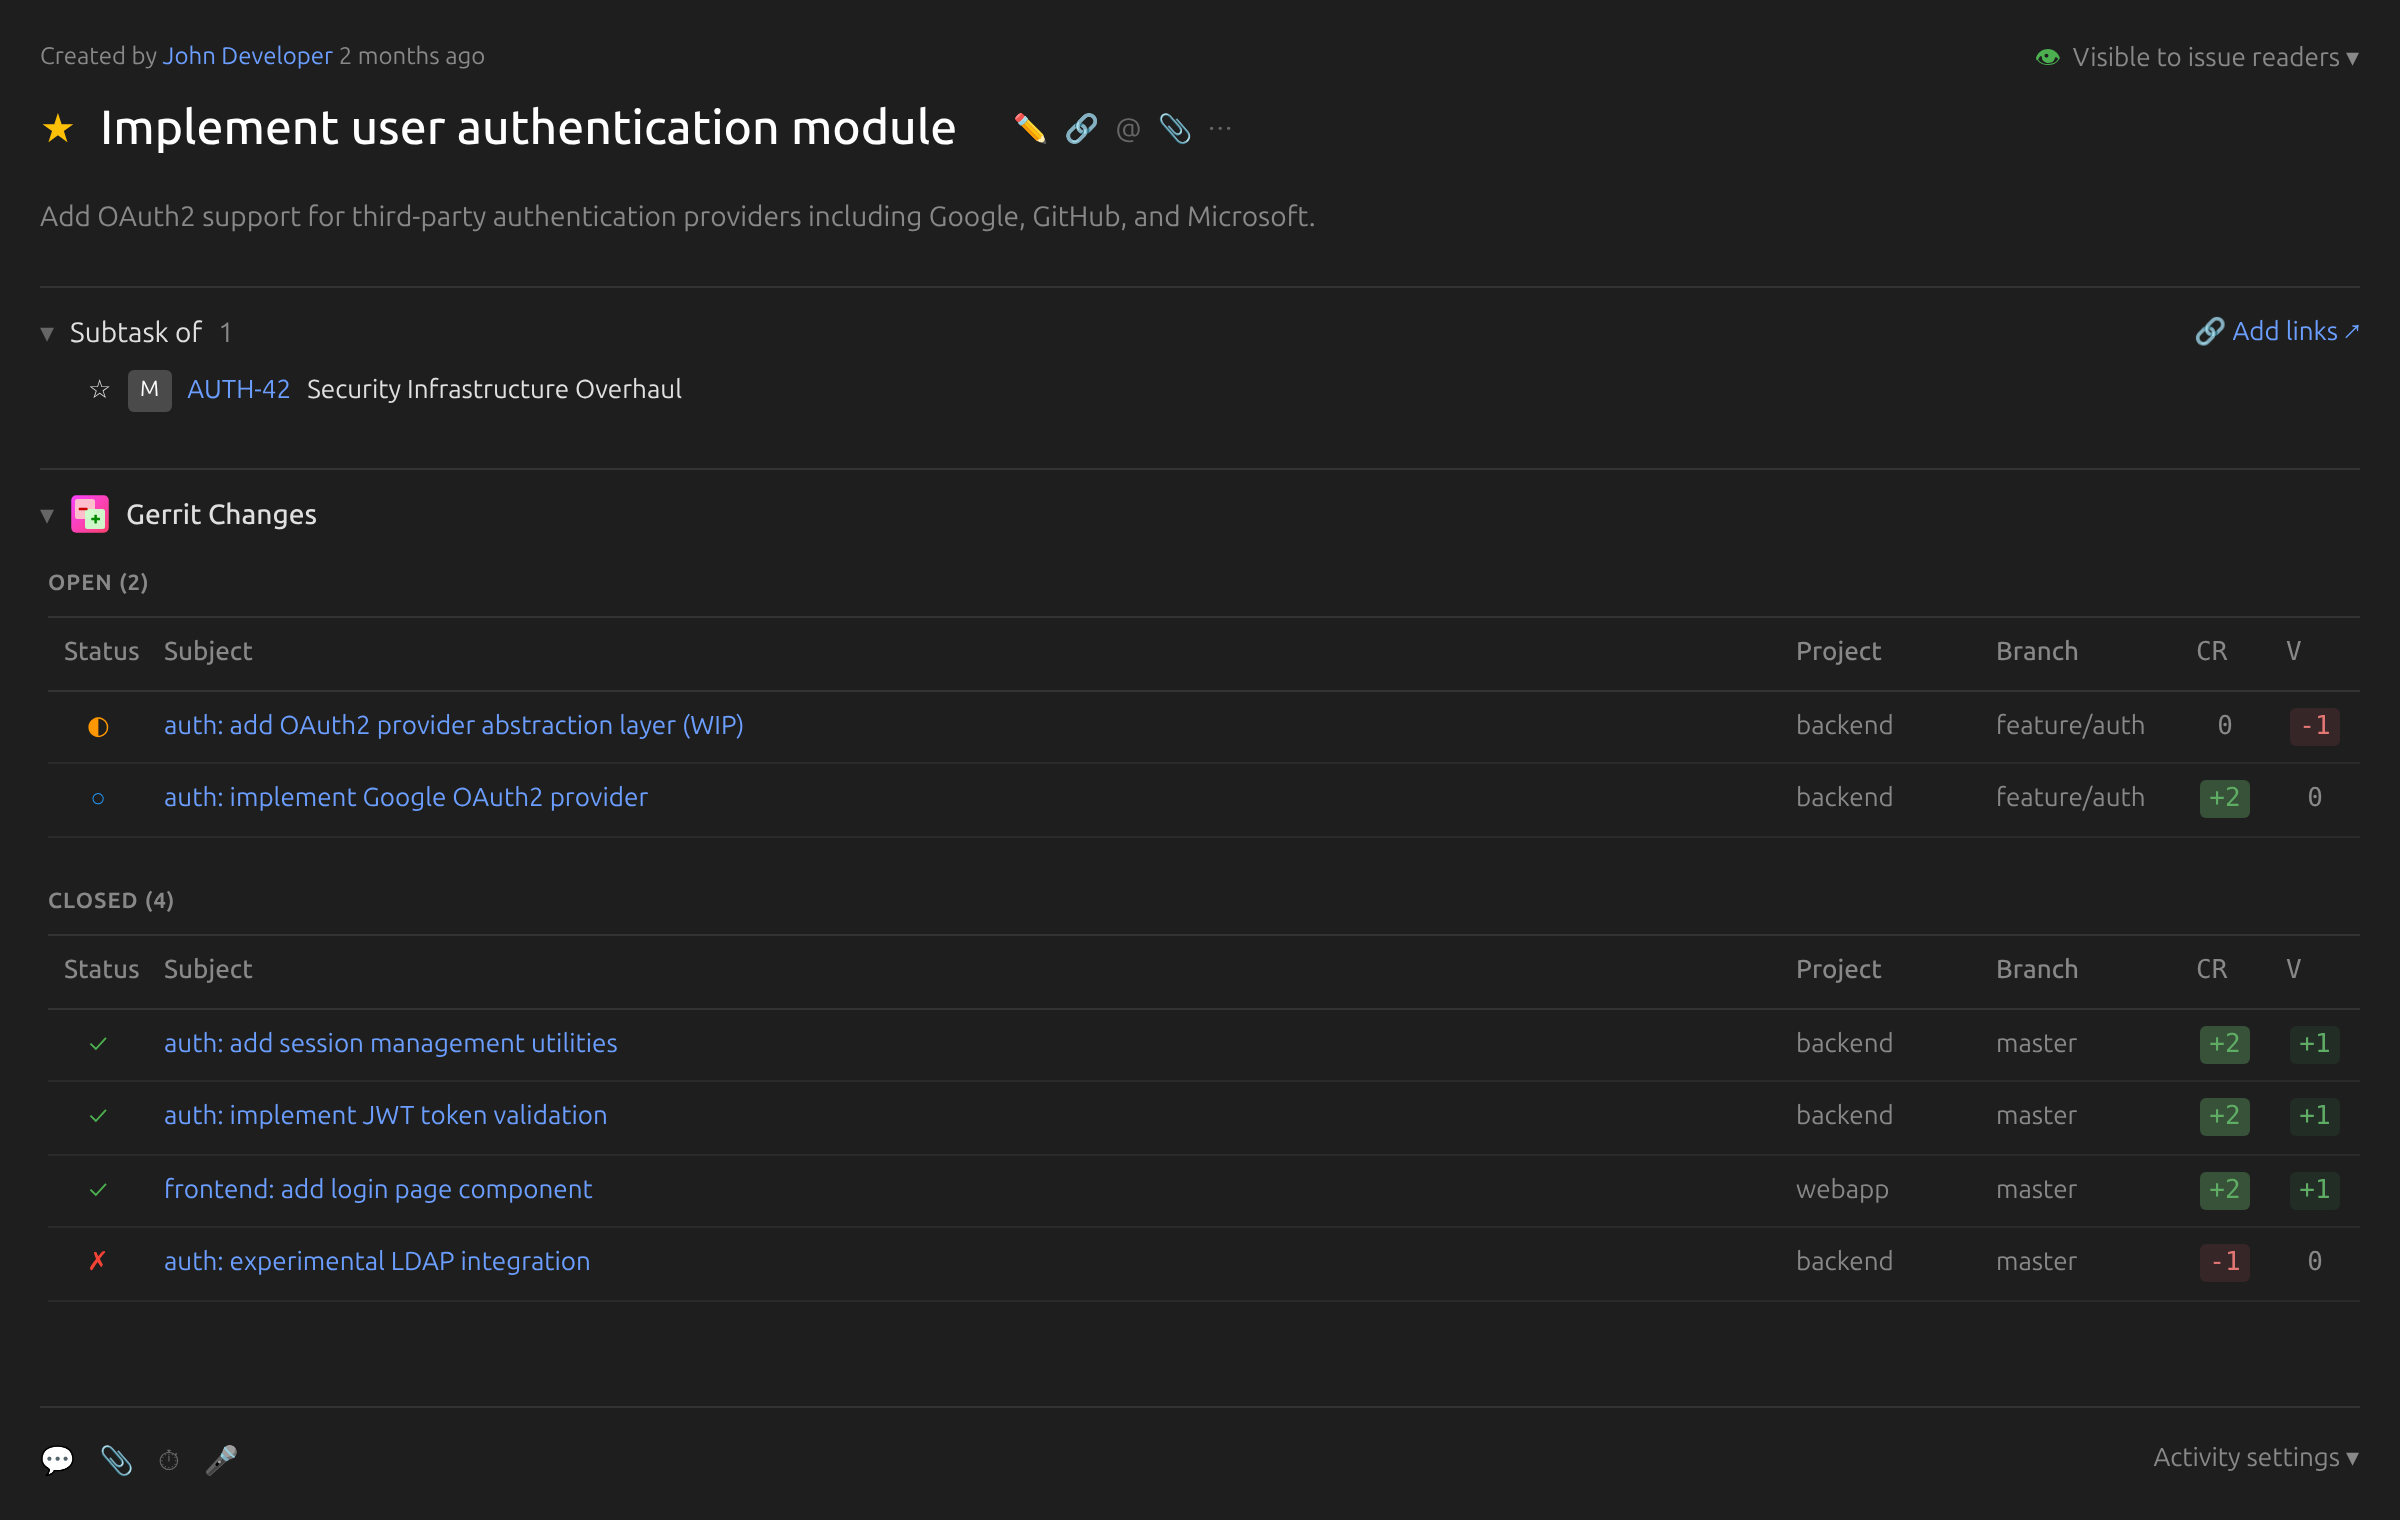
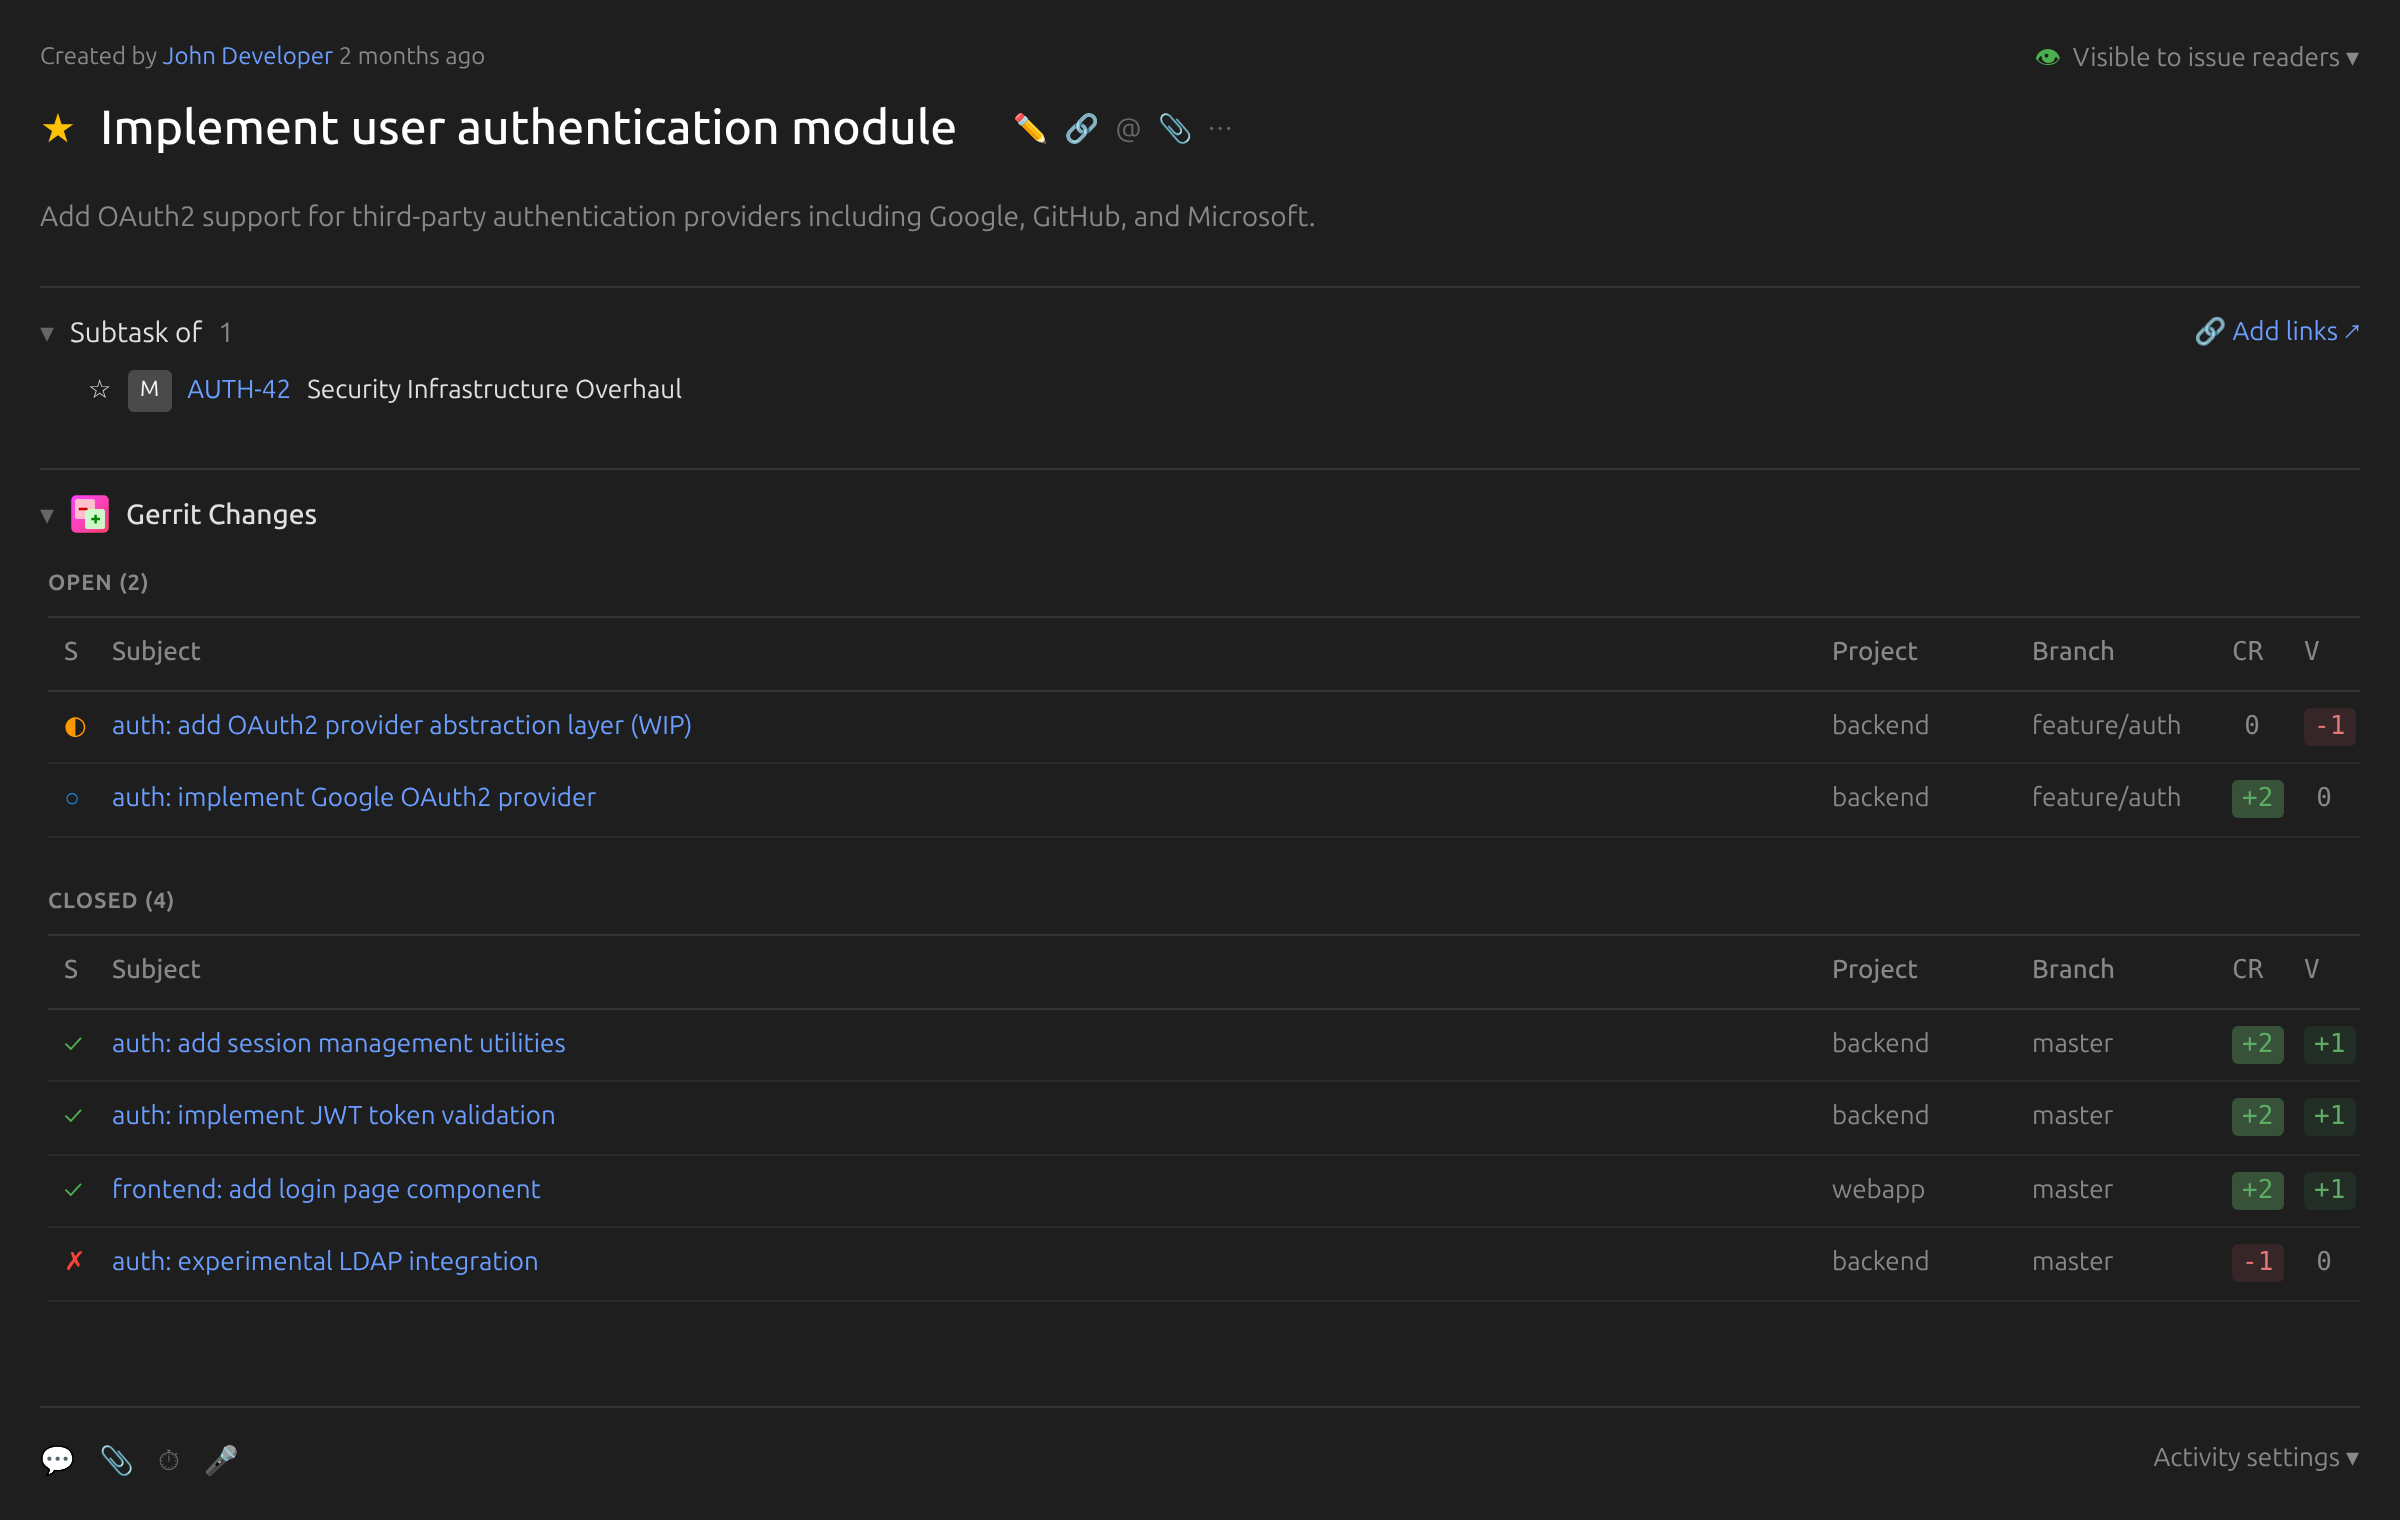
improve responsive layout for narrow split-view panel

diff --git a/src/widgets/crlist/app.css b/src/widgets/crlist/app.css
@@ -2,14 +2,15 @@
 .widget {
   display: flex;
   flex-direction: column;
-  gap: var(--ring-unit);
+  gap: calc(var(--ring-unit) * 0.5);
   margin: calc(var(--ring-unit) / 2);
   font-family: var(--ring-font-family);
+  overflow: hidden; /* Prevent any overflow */
 }
 
 .widget-loading,
 .widget-empty {
-  padding: calc(var(--ring-unit) * 2);
+  padding: var(--ring-unit);
   text-align: center;
 }
 
@@ -19,20 +20,21 @@
 
 /* Section styles */
 .changes-section {
-  margin-bottom: var(--ring-unit);
+  margin-bottom: calc(var(--ring-unit) * 0.5);
 }
 
 .section-header {
   display: flex;
   align-items: center;
   gap: calc(var(--ring-unit) * 0.5);
-  padding: calc(var(--ring-unit) * 0.5) 0;
+  padding: calc(var(--ring-unit) * 0.25) 0;
   border-bottom: 1px solid var(--ring-line-color);
-  margin-bottom: calc(var(--ring-unit) * 0.5);
+  margin-bottom: calc(var(--ring-unit) * 0.25);
 }
 
 .section-title {
   font-weight: 600;
+  font-size: var(--ring-font-size-smaller);
   color: var(--ring-secondary-color);
   text-transform: uppercase;
   letter-spacing: 0.5px;
@@ -40,27 +42,33 @@
 
 .section-count {
   color: var(--ring-secondary-color);
+  font-size: var(--ring-font-size-smaller);
 }
 
-/* Table styles */
+/* Table styles - use CSS Grid for responsive layout */
 .changes-table {
   width: 100%;
   border-collapse: collapse;
+  table-layout: fixed; /* Fixed layout for predictable column widths */
 }
 
 .changes-table th {
   text-align: left;
-  padding: calc(var(--ring-unit) * 0.5) calc(var(--ring-unit) * 0.75);
+  padding: 4px 6px;
   font-weight: 600;
+  font-size: var(--ring-font-size-smaller);
   color: var(--ring-secondary-color);
   border-bottom: 1px solid var(--ring-line-color);
   white-space: nowrap;
+  overflow: hidden;
+  text-overflow: ellipsis;
 }
 
 .changes-table td {
-  padding: calc(var(--ring-unit) * 0.5) calc(var(--ring-unit) * 0.75);
+  padding: 4px 6px;
   border-bottom: 1px solid var(--ring-line-color);
   vertical-align: middle;
+  font-size: var(--ring-font-size);
 }
 
 .changes-table tbody tr:hover {
@@ -71,16 +79,24 @@
   border-bottom: none;
 }
 
-/* Column styles */
+/* Column styles - use percentages for fluid layout */
 .col-status {
-  width: 28px;
+  width: 20px;
+  min-width: 20px;
+  max-width: 32px;
   text-align: center;
-  padding-left: calc(var(--ring-unit) * 0.5) !important;
-  padding-right: 0 !important;
+  padding-left: 2px !important;
+  padding-right: 2px !important;
+}
+
+th.col-status {
+  text-align: center;
 }
 
 .col-subject {
-  max-width: 450px;
+  /* Subject takes remaining space */
+  width: auto;
+  min-width: 0; /* Allow shrinking */
 }
 
 .col-subject a {
@@ -99,30 +115,23 @@
 
 .col-project,
 .col-branch {
-  max-width: 100px;
+  width: 100px;
+  min-width: 40px;
+  max-width: 120px;
   overflow: hidden;
   text-overflow: ellipsis;
   white-space: nowrap;
   color: var(--ring-secondary-color);
 }
 
-th.col-label {
+th.col-label, td.col-label {
   text-align: center;
-  width: 32px;
-  min-width: 32px;
-  max-width: 40px;
-  padding-left: 2px !important;
-  padding-right: 2px !important;
+  width: 28px;
+  min-width: 28px;
+  max-width: 36px;
+  padding: 4px 2px !important;
 }
 
-td.col-label {
-  text-align: center;
-  width: 32px;
-  min-width: 32px;
-  max-width: 40px;
-  padding-left: 2px !important;
-  padding-right: 2px !important;
-}
 
 /* Status icons */
 .status-icon {
@@ -147,17 +156,14 @@ td.col-label {
 }
 
 /* Label colors - Gerrit-style with backgrounds */
-td.col-label {
-  padding: 4px 2px !important;
-}
-
 td.col-label span {
   display: inline-block;
-  min-width: 22px;
+  min-width: 20px;
   text-align: center;
   border-radius: 3px;
-  padding: 3px 5px;
+  padding: 2px 4px;
   font-weight: 500;
+  font-size: var(--ring-font-size-smaller);
   font-family: var(--ring-font-family-monospace);
   line-height: 1;
 }
@@ -184,5 +190,79 @@ td.col-label span {
 
 .label-neutral {
   color: var(--ring-secondary-color);
+}
+
+/* Responsive adjustments for narrow views */
+/* Shrink columns in medium-width containers */
+@container (max-width: 800px) {
+  .col-project,
+  .col-branch {
+    width: 70px;
+    min-width: 35px;
+  }
+}
+
+@container (max-width: 500px) {
+  .col-project,
+  .col-branch {
+    width: 50px;
+    min-width: 35px;
+  }
+}
+
+/* Hide branch column first (less important than Subject) */
+@container (max-width: 450px) {
+  .col-branch,
+  th.col-branch {
+    display: none;
+  }
+  
+  .col-project {
+    width: 50px;
+    min-width: 35px;
+  }
+}
+
+@container (max-width: 320px) {
+  .col-project,
+  th.col-project {
+    display: none;
+  }
+}
+
+/* Fallback media query for narrow panels */
+@media (max-width: 800px) {
+  .col-project,
+  .col-branch {
+    width: 70px;
+    min-width: 35px;
+  }
+}
+
+@media (max-width: 500px) {
+  .col-project,
+  .col-branch {
+    width: 50px;
+    min-width: 35px;
+  }
+}
+
+@media (max-width: 480px) {
+  .col-branch,
+  th.col-branch {
+    display: none;
+  }
+  
+  .col-project {
+    width: 50px;
+    min-width: 35px;
+  }
+}
+
+@media (max-width: 340px) {
+  .col-project,
+  th.col-project {
+    display: none;
+  }
 }
 

diff --git a/docs/screenshot-mockup.html b/docs/screenshot-mockup.html
@@ -203,12 +203,13 @@
     }
     
     .col-status {
-      width: 50px;
+      width: 24px;
       text-align: center;
     }
     
     .col-subject {
       width: auto;
+      min-width: 0;
     }
     
     .col-subject a {
@@ -224,19 +225,22 @@
       text-decoration: underline;
     }
     
-    .col-project {
-      width: 100px;
-      color: #888;
-    }
-    
+    .col-project,
     .col-branch {
       width: 100px;
+      min-width: 40px;
+      max-width: 120px;
+      overflow: hidden;
+      text-overflow: ellipsis;
+      white-space: nowrap;
       color: #888;
     }
     
     .col-label {
       text-align: center;
-      width: 45px;
+      width: 36px;
+      min-width: 32px;
+      max-width: 44px;
       font-family: monospace;
       font-weight: 500;
     }
@@ -409,7 +413,7 @@
           <table class="changes-table">
             <thead>
               <tr>
-                <th class="col-status">Status</th>
+                <th class="col-status" title="Status">S</th>
                 <th class="col-subject">Subject</th>
                 <th class="col-project">Project</th>
                 <th class="col-branch">Branch</th>
@@ -443,7 +447,7 @@
           <table class="changes-table">
             <thead>
               <tr>
-                <th class="col-status">Status</th>
+                <th class="col-status" title="Status">S</th>
                 <th class="col-subject">Subject</th>
                 <th class="col-project">Project</th>
                 <th class="col-branch">Branch</th>

diff --git a/src/widgets/crlist/app.tsx b/src/widgets/crlist/app.tsx
@@ -175,7 +175,7 @@ const AppComponent: React.FunctionComponent = () => {
         <table className="changes-table">
           <thead>
             <tr>
-              <th className="col-status">Status</th>
+              <th className="col-status" title="Status">S</th>
               <th className="col-subject">Subject</th>
               <th className="col-project">Project</th>
               <th className="col-branch">Branch</th>

diff --git a/CHANGELOG.md b/CHANGELOG.md
@@ -7,6 +7,16 @@ and this project adheres to [Semantic Versioning](https://semver.org/spec/v2.0.0
 
 ## [Unreleased]
 
+### Changed
+- Improved responsive layout for resizable split-view panels
+  - Widget adapts to multiple container widths with smooth transitions
+  - Subject column prioritized as most important content (commit message titles <78 chars)
+  - Branch column hides at ~450px width (less important than Subject)
+  - Project column hides at very narrow widths (~320px)
+  - Column widths scale dynamically: wider in full view, narrower in split view
+  - Eliminated horizontal scrollbars across all panel sizes
+  - Fixed table layout prevents overflow issues
+
 ### Added
 - `.env.example` file for development environment configuration
 - Documentation for verifying frontend changes using browser automation tools
